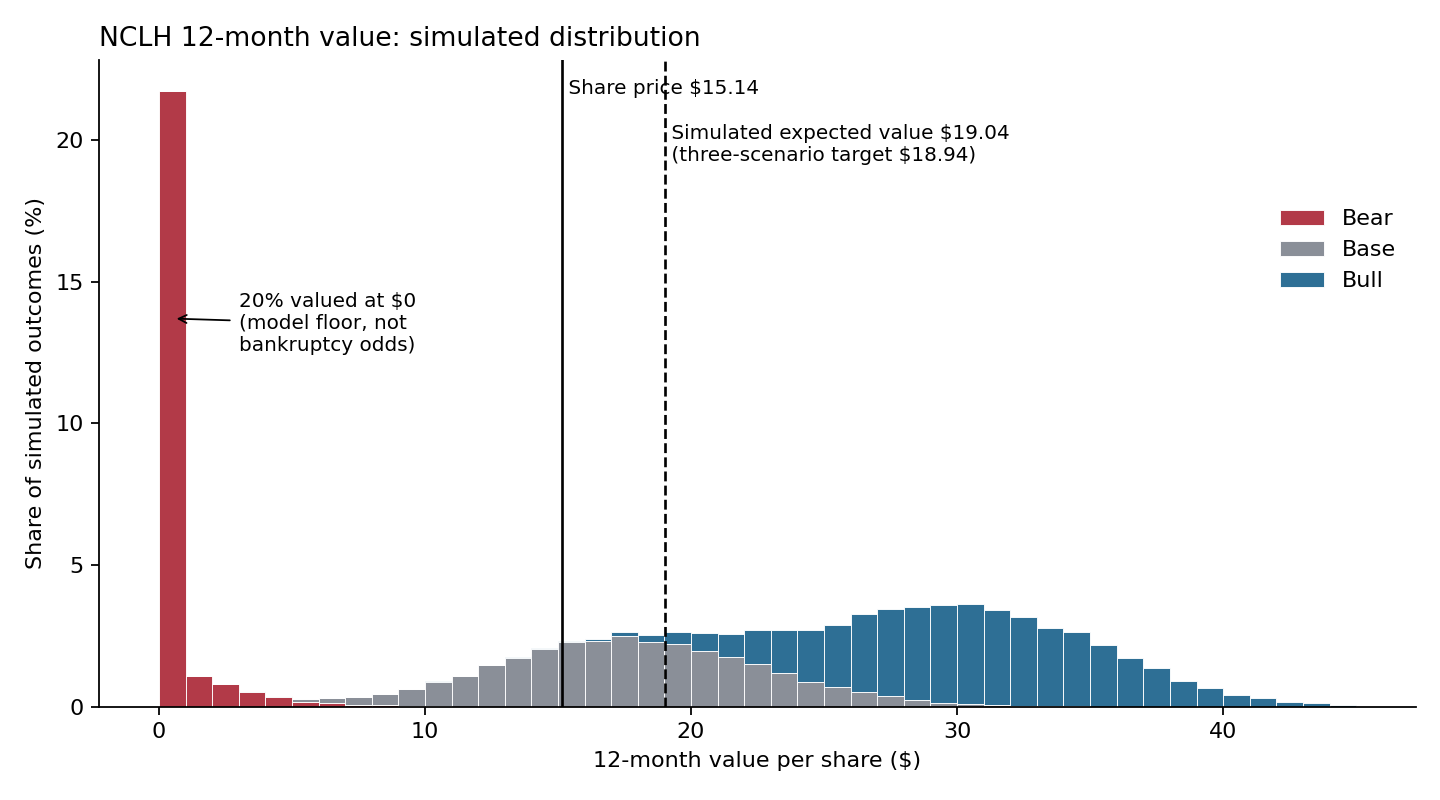
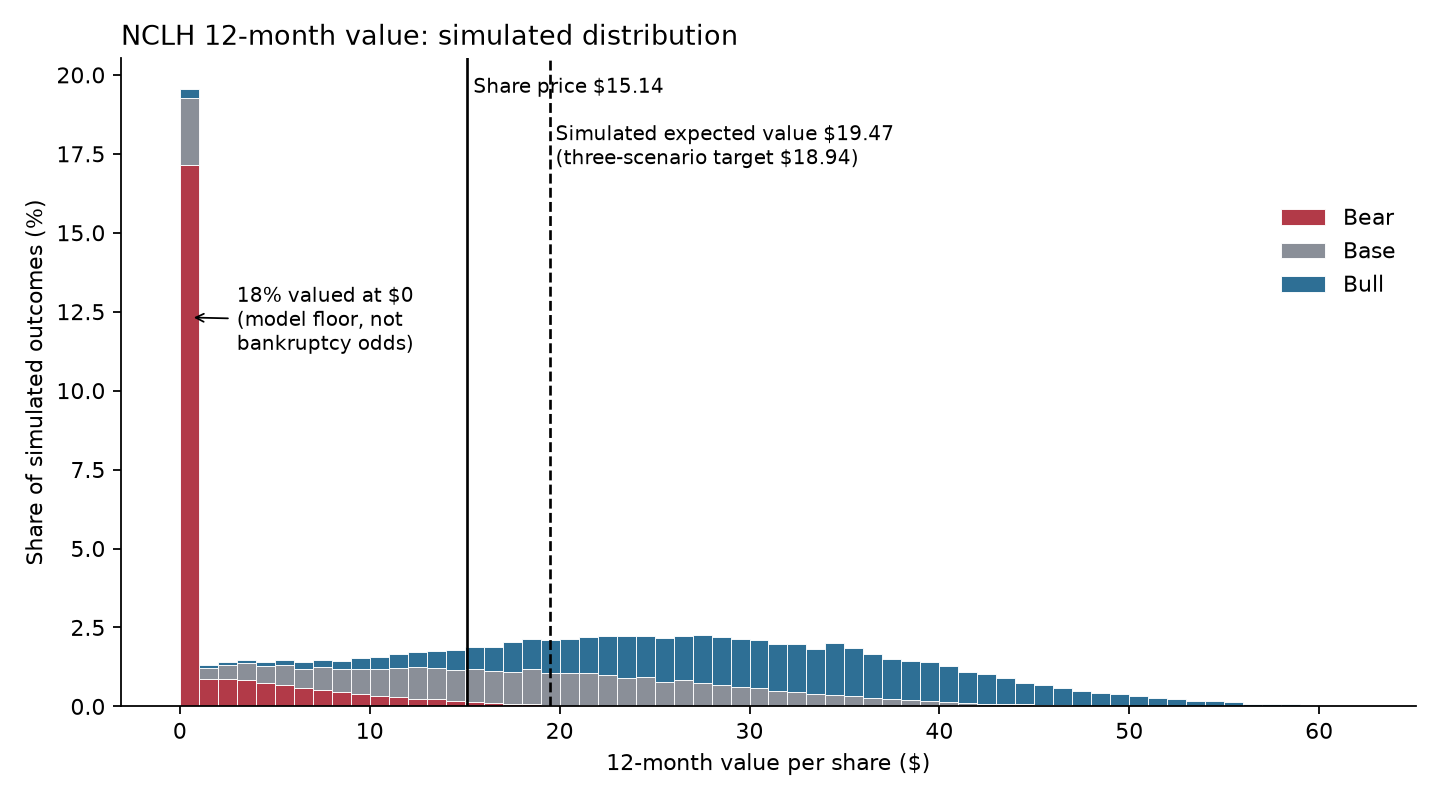
feat: sourced monte carlo spreads, trimmed comments, readme

Changed region(s): [[0.0, 0.0312, 0.9375, 0.9688], [0.875, 0.25, 0.9688, 0.375]]

diff --git a/nclh_mc/model.py b/nclh_mc/model.py
@@ -1,31 +1,15 @@
-"""Vectorized replica of the workbook's valuation path.
-
-The 12-month target in the workbook depends only on 2028E adj. EBITDA,
-year-end 2027E net debt, the target multiple and 2028E diluted shares
-(Valuation tab, rows 18-28). This module rebuilds exactly that chain from the
-Model tab's formulas, so every driver can be passed as a numpy array and one
-call prices every simulated draw at once.
-
-    Adj. EBITDA = net yield x capacity days - NCC ex-fuel x capacity days - fuel
-    Net debt(t) = net debt(t-1) - free cash flow(t)
-    Equity      = target multiple x 2028E EBITDA - 2027E net debt
-    Target      = equity / diluted shares incl. exchangeable notes, floored at $0
-"""
 import numpy as np
 
 
 def project(inp, yield_growth_2027, yield_growth_2028, ncc_growth_2027, ncc_growth_2028,
             fuel_price_2027, fuel_price_2028, ats_2027, discount, peer_multiple=None):
-    """Return a dict of arrays: ebitda_2028, net_debt_2027, multiple, equity, price."""
     if peer_multiple is None:
         peer_multiple = inp.peer_multiple
 
-    # Capacity (shared across scenarios)
     cap26 = inp.capacity_2026
     cap27 = cap26 * (1 + inp.capacity_growth_2027)
     cap28 = cap27 * (1 + inp.capacity_growth_2028)
 
-    # Unit revenue and unit cost
     y26 = inp.net_yield_2025 * (1 + inp.net_yield_growth_2026)
     y27 = y26 * (1 + yield_growth_2027)
     y28 = y27 * (1 + yield_growth_2028)
@@ -33,10 +17,10 @@ def project(inp, yield_growth_2027, yield_growth_2028, ncc_growth_2027, ncc_grow
     n27 = n26 * (1 + ncc_growth_2027)
     n28 = n27 * (1 + ncc_growth_2028)
 
-    # Fuel: tonnes scale with capacity; price is the hedged blend
     t26 = inp.fuel_tonnes_2026
     t27 = t26 * (cap27 / cap26) * (1 + inp.fuel_use_change_2027)
     t28 = t27 * (cap28 / cap27) * (1 + inp.fuel_use_change_2028)
+    # hedged blend
     p27 = inp.hedge_share_2027 * inp.hedge_price_2027 + (1 - inp.hedge_share_2027) * fuel_price_2027
     p28 = inp.hedge_share_2028 * inp.hedge_price_2028 + (1 - inp.hedge_share_2028) * fuel_price_2028
 
@@ -44,7 +28,6 @@ def project(inp, yield_growth_2027, yield_growth_2028, ncc_growth_2027, ncc_grow
     ebitda27 = y27 * cap27 - n27 * cap27 - t27 * p27 / 1000
     ebitda28 = y28 * cap28 - n28 * cap28 - t28 * p28 / 1000
 
-    # Free cash flow and net debt (2027 interest is company guidance in every scenario)
     fcf26 = (ebitda26 - inp.interest_2026 - inp.taxes_2026 + inp.ats_2026
              - inp.newbuild_capex_2026 - inp.other_capex_2026 + inp.asset_sales_2026)
     fcf27 = (ebitda27 - inp.interest_2027 - inp.taxes_2027 + ats_2027
@@ -52,13 +35,13 @@ def project(inp, yield_growth_2027, yield_growth_2028, ncc_growth_2027, ncc_grow
     nd26 = inp.net_debt_2025 - fcf26
     nd27 = nd26 - fcf27
 
-    # Valuation
+    # EV/EBITDA
     multiple = peer_multiple * (1 - discount)
     equity = multiple * ebitda28 - nd27
     shares = inp.shares_2028
     price_pre = np.maximum(0.0, equity / shares)
 
-    # Exchangeable notes: treasury-style dilution when the price is above the exchange price
+    # treasury method
     dilution = np.zeros_like(np.asarray(price_pre, dtype=float))
     safe_price = np.where(price_pre > 0, price_pre, 1.0)
     for x_price, x_shares in zip(inp.exchange_prices, inp.exchange_shares):
@@ -71,7 +54,6 @@ def project(inp, yield_growth_2027, yield_growth_2028, ncc_growth_2027, ncc_grow
 
 
 def point_targets(inp):
-    """Price each scenario at its point assumptions (what the workbook does)."""
     return {s: float(project(inp, **d)["price"]) for s, d in inp.drivers.items()}
 
 

diff --git a/nclh_mc/inputs.py b/nclh_mc/inputs.py
@@ -1,10 +1,3 @@
-"""Read model inputs from the team's Excel workbook.
-
-Rows are located by their label in column A rather than by cell address, so
-inserting or moving rows in the workbook will not silently break the
-simulation. We read the values Excel cached on its last save, so save the
-workbook in Excel after changing inputs and the simulation picks them up.
-"""
 from dataclasses import dataclass, field
 from pathlib import Path
 
@@ -12,10 +5,9 @@ from openpyxl import load_workbook
 
 SCENARIOS = ("bear", "base", "bull")
 
-# Inputs sheet column layout (see the workbook headers).
-COL_2026, COL_2027, COL_2028 = 3, 4, 5        # sections 1, 3 and 5
-COL_2025A = 4                                   # section 2 (C=2024A, D=2025A)
-SCENARIO_COL = {"bear": 3, "base": 4, "bull": 5}  # discount / probability rows
+COL_2026, COL_2027, COL_2028 = 3, 4, 5
+COL_2025A = 4
+SCENARIO_COL = {"bear": 3, "base": 4, "bull": 5}
 SCENARIO_ROW_OFFSET = {"bear": 0, "base": 1, "bull": 2}
 
 
@@ -23,7 +15,6 @@ SCENARIO_ROW_OFFSET = {"bear": 0, "base": 1, "bull": 2}
 class ModelInputs:
     share_price: float
     shares_2028: float
-    # Operating base year
     capacity_2026: float
     capacity_growth_2027: float
     capacity_growth_2028: float
@@ -39,7 +30,6 @@ class ModelInputs:
     hedge_price_2027: float
     hedge_share_2028: float
     hedge_price_2028: float
-    # Cash flow items, 2026-2027
     net_debt_2025: float
     interest_2026: float
     interest_2027: float
@@ -52,14 +42,12 @@ class ModelInputs:
     other_capex_2027: float
     asset_sales_2026: float
     asset_sales_2027: float
-    # Valuation
     peer_multiple: float
     exchange_prices: tuple
     exchange_shares: tuple
-    # Scenario-specific
-    drivers: dict = field(default_factory=dict)        # scenario -> driver dict
-    probabilities: dict = field(default_factory=dict)  # scenario -> probability
-    excel_targets: dict = field(default_factory=dict)  # scenario -> $ target in Excel
+    drivers: dict = field(default_factory=dict)
+    probabilities: dict = field(default_factory=dict)
+    excel_targets: dict = field(default_factory=dict)
 
 
 def _find_row(ws, label):
@@ -81,7 +69,6 @@ def _val(ws, label, col):
 
 
 def _scenario_val(ws, label, scenario, col):
-    """Section 5 drivers: label on the bear row, base and bull on the next rows."""
     r = _find_row(ws, label) + SCENARIO_ROW_OFFSET[scenario]
     tag = str(ws.cell(r, 2).value).strip().lower()
     if tag != scenario:

diff --git a/nclh_mc/simulate.py b/nclh_mc/simulate.py
@@ -1,12 +1,3 @@
-"""Monte Carlo over the workbook's three scenarios.
-
-Each draw (1) picks bear, base or bull using the scenario probabilities from
-the Inputs tab, then (2) varies that scenario's drivers around its point
-assumptions using the spreads in config.toml, then (3) prices the draw with
-the same valuation chain as the workbook. The average across draws is
-sum over scenarios of P(scenario) x average price within that scenario,
-which is what the three-point SUMPRODUCT in the workbook approximates.
-"""
 import numpy as np
 
 from .model import point_expected_value, project
@@ -16,13 +7,7 @@ SHOCKED = ["yield_growth_2027", "yield_growth_2028", "ncc_growth_2027", "ncc_gro
 
 
 def draw_shocks(rng, n, rho, direction):
-    """Standard-normal shocks with a one-factor 'downturn' link.
-
-    shock_i = d_i * sqrt(rho) * M + sqrt(1 - d_i^2 * rho) * e_i
-    where M is a common downturn factor and d_i is -1, 0 or +1. Every shock
-    keeps a variance of 1, and linked drivers have correlation +/- rho.
-    """
-    common = rng.standard_normal(n)
+    common = rng.standard_normal(n)  # one-factor
     shocks = {}
     for name in SHOCKED:
         load = direction.get(name, 0) * np.sqrt(rho)
@@ -31,7 +16,6 @@ def draw_shocks(rng, n, rho, direction):
 
 
 def simulate(inp, cfg, draws=None, seed=None, spread_scale=1.0, rho=None):
-    """Return (prices, scenario index per draw, scenario names)."""
     draws = int(draws or cfg["draws"])
     seed = cfg["seed"] if seed is None else seed
     rho = cfg["downturn"]["rho"] if rho is None else rho
@@ -88,7 +72,6 @@ def summarize(price, scen, names, share_price):
 
 
 def robustness(inp, cfg):
-    """Expected value and risk stats across spread scales and downturn links."""
     point_ev = point_expected_value(inp)
     rows = []
     for rho in cfg["robustness"]["rhos"]:
@@ -110,7 +93,6 @@ def robustness(inp, cfg):
 
 
 def convergence(inp, cfg):
-    """How much the expected price and loss probability move between seeds."""
     rows = []
     for n in cfg["convergence"]["draw_counts"]:
         means, losses = [], []

diff --git a/run.py b/run.py
@@ -1,9 +1,3 @@
-"""Run the NCLH Monte Carlo.
-
-    python run.py                          # settings from config.toml
-    python run.py --rho 0.5                # linked-downturn stress case
-    python run.py --workbook path/to.xlsx --draws 200000 --skip-extras
-"""
 import argparse
 import json
 import tomllib
@@ -14,7 +8,7 @@ from nclh_mc.model import point_expected_value, point_targets
 from nclh_mc.report import histogram, markdown_summary, write_csv
 from nclh_mc.simulate import convergence, robustness, simulate, summarize
 
-TOLERANCE = 0.01  # $ per share
+TOLERANCE = 0.01  # $/share
 
 
 def main():
@@ -30,7 +24,6 @@ def main():
 
     with open(args.config, "rb") as f:
         cfg = tomllib.load(f)
-    cfg["_path"] = args.config
     for key in ("draws", "seed"):
         if getattr(args, key) is not None:
             cfg[key] = getattr(args, key)
@@ -39,7 +32,6 @@ def main():
 
     inp = load_inputs(args.workbook or cfg["workbook"])
 
-    # 1. Validate: the Python replica must reproduce the workbook's targets.
     point = point_targets(inp)
     for s, target in point.items():
         diff = abs(target - inp.excel_targets[s])
@@ -52,7 +44,6 @@ def main():
     print("Validation passed: Python reproduces the workbook's targets "
           + ", ".join(f"{s} ${v:.2f}" for s, v in point.items()) + f" (EV ${point_ev:.2f})")
 
-    # 2. Main simulation.
     price, scen, names = simulate(inp, cfg)
     s = summarize(price, scen, names, inp.share_price)
     print(f"Simulated expected value ${s['expected_price']:.2f} "
@@ -66,7 +57,6 @@ def main():
     with open(out / "summary.json", "w") as f:
         json.dump({"point_targets": point, "point_expected_value": point_ev, "simulation": s}, f, indent=2)
 
-    # 3. Robustness and convergence.
     rob, conv = [], []
     if not args.skip_extras:
         rob = robustness(inp, cfg)

diff --git a/nclh_mc/report.py b/nclh_mc/report.py
@@ -1,11 +1,10 @@
-"""Write the chart, CSV tables and a markdown summary to results/."""
 import csv
 
 import matplotlib
 
 matplotlib.use("Agg")
-import matplotlib.pyplot as plt  # noqa: E402
-import numpy as np  # noqa: E402
+import matplotlib.pyplot as plt
+import numpy as np
 
 COLORS = {"bear": "#B23A48", "base": "#8A8F98", "bull": "#2E6F95"}
 
@@ -53,12 +52,8 @@ def _pct(x):
 
 
 def markdown_summary(inp, cfg, point, point_ev, s, rob, conv, path):
-    placeholder = any("PLACEHOLDER" in line for line in open(cfg["_path"]))
     L = []
     L.append("# NCLH Monte Carlo results\n")
-    if placeholder:
-        L.append("> **Spreads in config.toml are still marked PLACEHOLDER.** "
-                 "Replace them with sourced values before quoting these numbers.\n")
     L.append(f"Share price ${inp.share_price:.2f}. {cfg['draws']:,} draws, seed {cfg['seed']}, "
              f"downturn link rho = {cfg['downturn']['rho']}.\n")
 

diff --git a/tests/test_model.py b/tests/test_model.py
@@ -1,4 +1,3 @@
-"""Run with:  pytest -q"""
 import copy
 import tomllib
 from pathlib import Path

diff --git a/results/summary.md b/results/summary.md
@@ -1,7 +1,5 @@
 # NCLH Monte Carlo results
 
-> **Spreads in config.toml are still marked PLACEHOLDER.** Replace them with sourced values before quoting these numbers.
-
 Share price $15.14. 100,000 draws, seed 42, downturn link rho = 0.0.
 
 ## Three-scenario target (workbook) vs. simulation
@@ -10,20 +8,20 @@ Share price $15.14. 100,000 draws, seed 42, downturn link rho = 0.0.
 |---|---|---|---|---|
 | Probability | 25.0% | 30.0% | 45.0% | |
 | Point target (workbook) | $0.00 | $17.67 | $30.30 | $18.94 |
-| Simulated average | $0.43 | $17.69 | $30.22 | $19.04 |
-| Share of draws valued at $0 | 81.4% | 0.0% | 0.0% | 20.3% |
+| Simulated average | $2.24 | $17.88 | $30.04 | $19.47 |
+| Share of draws valued at $0 | 64.8% | 5.8% | 0.5% | 18.1% |
 
 ## Distribution of outcomes
 
 | Measure | Value |
 |---|---|
-| Expected value | $19.04 (+25.8%) |
-| Standard deviation | $12.75 |
-| Chance of any loss | 34.2% |
-| Chance of losing more than half | 25.4% |
-| Chance equity is valued at $0 by the model (not a bankruptcy probability) | 20.3% |
-| Chance of gaining more than half | 46.5% |
-| 5th / 25th / 50th / 75th / 95th percentile | $0.00 / $6.47 / $21.40 / $29.61 / $36.42 |
+| Expected value | $19.47 (+28.6%) |
+| Standard deviation | $14.91 |
+| Chance of any loss | 41.2% |
+| Chance of losing more than half | 28.8% |
+| Chance equity is valued at $0 by the model (not a bankruptcy probability) | 18.1% |
+| Chance of gaining more than half | 43.2% |
+| 5th / 25th / 50th / 75th / 95th percentile | $0.00 / $4.89 / $19.58 / $30.98 / $44.03 |
 
 ![Distribution](payoff_histogram.png)
 
@@ -33,14 +31,14 @@ Spread scale multiplies every spread in config.toml. rho links yields, advance t
 
 | rho | Spread scale | Expected value | Gap vs. workbook target | Bear bucket average | Chance valued at $0 | Chance of loss |
 |---|---|---|---|---|---|---|
-| 0.0 | 0.5x | $18.98 | +0.04 | $0.03 | 24.0% | 29.4% |
-| 0.0 | 1.0x | $19.04 | +0.10 | $0.43 | 20.3% | 34.2% |
-| 0.0 | 1.5x | $19.07 | +0.14 | $1.05 | 18.3% | 37.1% |
-| 0.0 | 2.0x | $19.04 | +0.11 | $1.76 | 17.9% | 40.2% |
-| 0.5 | 0.5x | $19.02 | +0.08 | $0.14 | 22.4% | 31.7% |
-| 0.5 | 1.0x | $19.22 | +0.28 | $0.92 | 18.5% | 36.1% |
-| 0.5 | 1.5x | $19.46 | +0.52 | $1.95 | 17.6% | 39.8% |
-| 0.5 | 2.0x | $19.72 | +0.78 | $3.07 | 18.5% | 42.5% |
+| 0.0 | 0.5x | $19.09 | +0.15 | $0.62 | 19.3% | 35.0% |
+| 0.0 | 1.0x | $19.47 | +0.53 | $2.24 | 18.1% | 41.2% |
+| 0.0 | 1.5x | $20.20 | +1.26 | $4.01 | 21.5% | 44.9% |
+| 0.0 | 2.0x | $21.27 | +2.34 | $5.80 | 25.5% | 46.7% |
+| 0.5 | 0.5x | $19.16 | +0.22 | $0.90 | 18.5% | 36.2% |
+| 0.5 | 1.0x | $19.78 | +0.84 | $2.92 | 18.9% | 42.8% |
+| 0.5 | 1.5x | $20.93 | +2.00 | $5.10 | 23.4% | 45.7% |
+| 0.5 | 2.0x | $22.55 | +3.61 | $7.30 | 27.8% | 47.1% |
 
 ## Convergence: run-to-run noise by number of draws
 
@@ -48,7 +46,7 @@ Each draw count was run with 20 different seeds.
 
 | Draws | Expected value range | Chance-of-loss range |
 |---|---|---|
-| 1,000 | $18.57 to $19.59 | 31.0% to 36.7% |
-| 10,000 | $18.75 to $19.28 | 33.2% to 35.2% |
-| 100,000 | $18.93 to $19.09 | 34.1% to 34.6% |
-| 1,000,000 | $18.97 to $19.02 | 34.2% to 34.4% |
+| 1,000 | $18.81 to $20.19 | 38.3% to 42.8% |
+| 10,000 | $19.10 to $19.67 | 40.1% to 42.1% |
+| 100,000 | $19.34 to $19.53 | 41.1% to 41.7% |
+| 1,000,000 | $19.38 to $19.44 | 41.3% to 41.5% |

diff --git a/README.md b/README.md
@@ -3,3 +3,13 @@
 ## Monte Carlo
 
 ![Monte Carlo](results/payoff_histogram.png)
+
+## Model vs. GBM and the options market
+
+![GBM and options market](https://github.com/tandonlurk/ArkhamKnights/blob/market-cross-check/results/market_vs_model.png?raw=true)
+
+## Method
+
+**Monte Carlo (`main`).** Our workbook values NCLH under bear, base and bull scenarios weighted 25/30/45. Each scenario is a single point, and the bear point floors equity at $0, so the three-point average misstates the expected value. The simulation picks a scenario by those weights, then draws 2027-28 net yield growth, NCC ex-fuel growth, fuel price and advance ticket sales around that scenario's assumptions. Each spread is one standard deviation of historical guidance error. Every draw is priced through a Python replica of the workbook's valuation (2028E adj. EBITDA × target multiple − 2027E net debt, over diluted shares). Before simulating, the replica must reproduce the workbook's three targets to the cent. Over 100,000 draws, the expected value is $19.47 against a $15.14 share price.
+
+**Market cross-check (`market-cross-check`).** This branch compares our outcome distribution with what the market prices for the same 12 months, using two methods: GBM at NCLH's 54% at-the-money implied vol, and risk-neutral probabilities taken from the slope of call prices across strikes on the Sep 2027 option chain (Oct 2, 2026 close), which also captures skew. GBM is a benchmark here, not an input: it knows nothing about the business and cannot reach $0. The gap between the curves is our variant view: we assign 43% to a 50%+ gain against the market's 20%.
